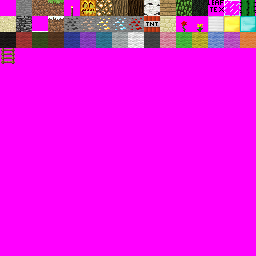
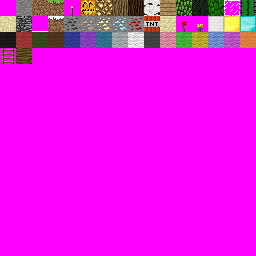
Turned on inventory graphics and ugly gray background (I'm working on improving it xD) Also added Jumgle Leaves and Wood.

Changed region(s): [[0.8125, 0.0, 0.875, 0.0625], [0.0625, 0.1875, 0.125, 0.25]]

diff --git a/trunk/MineDS/source/mining.cpp b/trunk/MineDS/source/mining.cpp
@@ -13,6 +13,7 @@
 #include "blockupdate.h"
 #include "titlescreen.h"
 #include "inventory.h"
+//#include "graphics/inventoryGraphics.h"
 #define NUM_BLOCKS 48
 int selectedblock=0;
 bool loadedgraphic=false;
@@ -41,7 +42,7 @@ void blocksCanPlace()
 void setBlock(worldObject* world, int x,int y)
 {
 	bool something=true;
-        int c = 1;
+	int c = 1;
 	if ((keysHeld() & KEY_DOWN) || selectedblock==CACTUS)
 	{
 		if (world->bgblocks[x][y]!=AIR) something=false;
@@ -49,12 +50,12 @@ void setBlock(worldObject* world, int x,int y)
 	if (world->blocks[x][y]==AIR && something)
 	{
 		if ((keysHeld() & KEY_DOWN))
-                {
+		{
 			if (subInventory(selectedblock,1))
-        			world->bgblocks[x][y]=selectedblock;
+				world->bgblocks[x][y]=selectedblock;
 			checkBlockPlace(x,y,world,true);		
-                }
-                else 
+		}
+		else 
 		{
 			if (subInventory(selectedblock,1))
 				world->blocks[x][y]=selectedblock;
@@ -63,14 +64,16 @@ void setBlock(worldObject* world, int x,int y)
 	}
 	else if (world->blocks[x][y]!=AIR)
 	{
-		addInventory(world->blocks[x][y],1);
-                world->blocks[x][y]=AIR;
+		//if (!invFull())
+			addInventory(world->blocks[x][y],1);
+		world->blocks[x][y]=AIR;
 		checkBlockDelete(x,y,world,false);
 	}
 	else if (world->blocks[x][y]==AIR)
 	{
+		//if (!invFull())
 		addInventory(world->bgblocks[x][y],1);
-                world->bgblocks[x][y]=AIR;
+		world->bgblocks[x][y]=AIR;
 		checkBlockDelete(x,y,world,true);
 	}
 	else return;
@@ -96,8 +99,8 @@ void miningUpdate(worldObject* world,int a,int b,touchPosition touch,int keys) /
 		}
 		else if (canPlaceBlocks && !incutscene)
 		{
-		 setBlock(world,x,y);
-		 updateBrightnessAround(world,x,y);
+			setBlock(world,x,y);
+			updateBrightnessAround(world,x,y);
 		}
 	}
 	if ((keys & KEY_L && LRC==true) || (keys & KEY_X && LRC==false))
@@ -112,13 +115,13 @@ void miningUpdate(worldObject* world,int a,int b,touchPosition touch,int keys) /
 	}
 	if (selectedblock<0)
 	{
-	 selectedblock=NUM_BLOCKS;
-	 calculateTopBlock();
+		selectedblock=NUM_BLOCKS;
+		calculateTopBlock();
 	}
 	else if (selectedblock>NUM_BLOCKS)
 	{
-	 selectedblock=0;
-	 calculateTopBlock();
+		selectedblock=0;
+		calculateTopBlock();
 	}
 	if (selectedblock!=0) showGraphic(&topBlock,0,0);
 	if (canPlaceBlocks==false) framecounting++;

diff --git a/trunk/MineDS/source/graphics/inventoryGraphics.cpp b/trunk/MineDS/source/graphics/inventoryGraphics.cpp
@@ -5,12 +5,14 @@
 #include "graphics.h"
 #include "../mining.h"
 #include "../inventory.h"
+#define INV_SLOTS 40
 
-Graphic INV[20];
+Graphic INV[INV_SLOTS];
 
 bool empty = false; //Whether the inventory is empty
 int total;
-bool loadedInv[20];
+bool loadedInv[INV_SLOTS];
+int invID [INV_SLOTS];
 
 void initInvGraphics() //Draws Grey background
 {
@@ -24,19 +26,18 @@ void updateInvGraphics() //changes inventory graphics array invenotry slots in c
 {
 	int i, j, b = 1;
 	total = 0;
-	for (i = 1; i <= 20; i++)
+	for (i = 1; i <= INV_SLOTS; i++)
 	{
-		while (checkInventory(b) == 0 && b < NUM_BLOCKS)
+		while (checkInventory(b) == 0 && b < NUM_BLOCKS+2)
 			b++;
-		if (b == NUM_BLOCKS)
-			empty = true;
-		else if (b < NUM_BLOCKS)
+		if (b < NUM_BLOCKS)
 			empty = false;
 		if (!empty)
 		{
 			if (loadedInv[i])
 				unloadGraphic(&INV[i]);
 			loadGraphicSub(&INV[i],2,b);
+			//invID[i]=b;            <<<<<<<<<<<<<<<<<<<<<<<<<<<<<<< CAUSES INV NOT TO DISPLAY
 			loadedInv[i] = true;
 			b++;
 			total ++;
@@ -49,17 +50,17 @@ void drawInv() //Draws the items in the inventory
 	if (!empty)
 	{
 		int i,j,a;
-		j = 60;
-		i = 60;
+		j = 23; //start x
+		i = 23; //start y
 		for (a=1;a<=total;a++)
 		{
 			showGraphic(&INV[a],j,i);
 			if (j<200)
-				j += 60;
+				j += 30; //increment x
 			else
 			{
-				j = 70;
-				i += 60;
+				j = 23; //Exact same as start x
+				i += 30; //increment y
 			}
 		}
 	}

diff --git a/trunk/MineDS/source/blockID.h b/trunk/MineDS/source/blockID.h
@@ -20,6 +20,7 @@
 #define PLANKS 10
 #define LEAF 11
 #define REDWOOD_LEAF 12
+#define JUNGLE_LEAF 13
 #define GLASS 14
 #define CACTUS 15
 #define SAND 16
@@ -56,3 +57,4 @@
 #define FUCHSIA_WOOL 46
 #define ORANGE_WOOL 47
 #define LADDER 48
+#define JUNGLE WOOD 49

diff --git a/trunk/MineDS/source/mainGame.cpp b/trunk/MineDS/source/mainGame.cpp
@@ -25,7 +25,7 @@ worldObject* mainGame(int mode,worldObject* CurrentWorld)
 	clear_messages();
 	lcdMainOnBottom();
 	touchPosition touch;
-	//initInvGraphics();
+	initInvGraphics();
 
 	if (mode==0) // Generate new world and reset the camera and time
 	{

diff --git a/trunk/MineDS/source/graphics/inventoryGraphics.h b/trunk/MineDS/source/graphics/inventoryGraphics.h
@@ -1,4 +1,5 @@
 #define INV_SLOTS 20;
 void initInvGraphics();
 void updateInvGraphics();
+//bool invFull();
 void drawInv();
